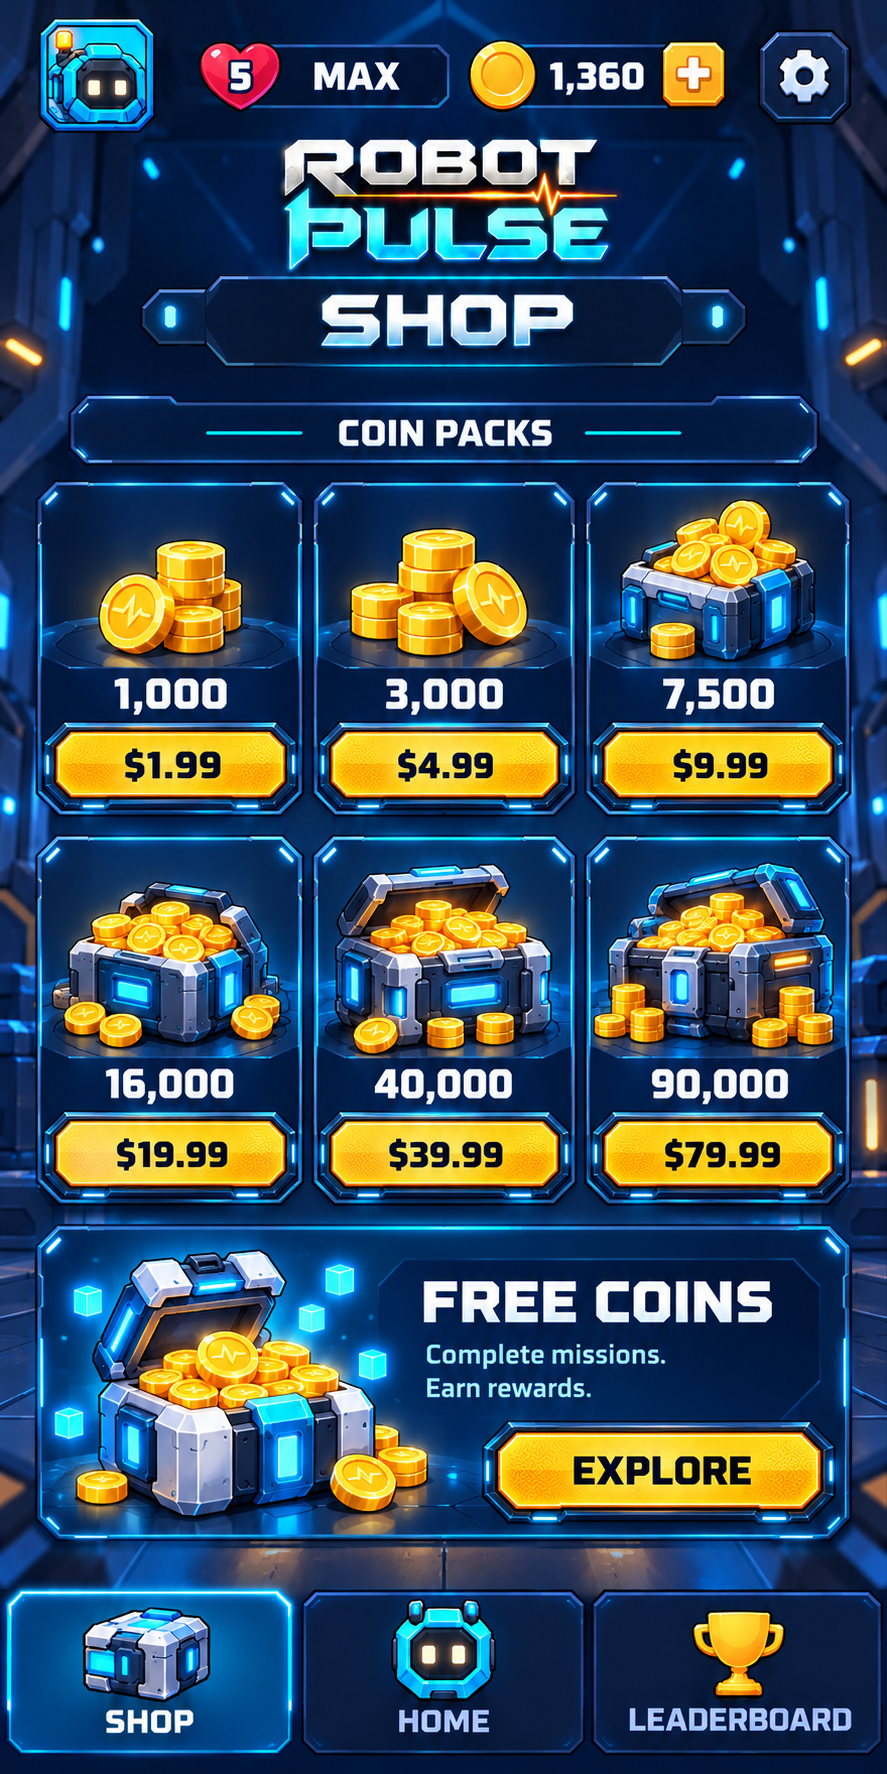
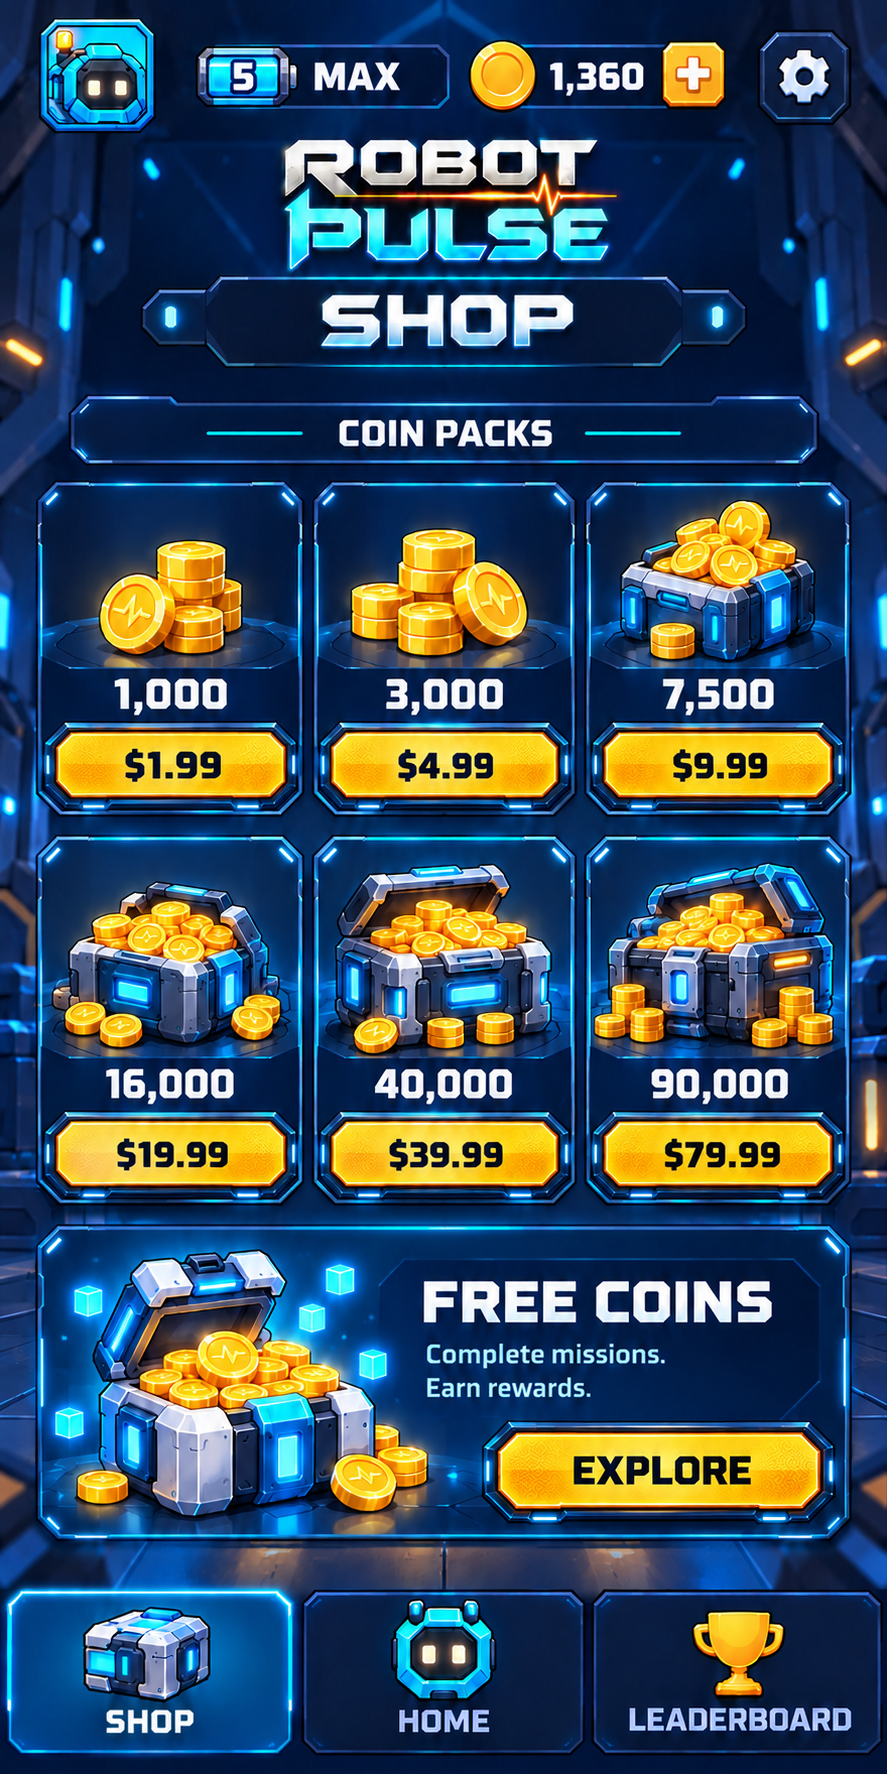
Replace heart with robot energy battery across all three menus
Keep the 5 MAX counter and existing layouts. Document battery charges as remaining attempts, with one charge consumed per defeat.

diff --git a/art/ui/2026-10-09-three-menus/prompts.md b/art/ui/2026-10-09-three-menus/prompts.md
@@ -42,3 +42,26 @@ Below podium a clean list of exactly three compact horizontal player cards with 
 "6" / "AXIS" / "940".
 Then a pinned player card just above the bottom navigation, brighter cyan with a restrained gold edge. Exact content "128" / our cyan robot avatar / "YOU" / "470". It must be completely visible with comfortable padding.
 Same bottom navigation SHOP / HOME / LEADERBOARD, only LEADERBOARD selected and illuminated cyan with a gold trophy. Keep all three labels visible. Dark navy quiet hangar background; no distracting battle. Readable English text, consistent alignment and spacing, full phone-height UI inside the image, no cropping, no phone mockup, no explanation outside screenshot.
+
+
+## Actualización: batería de energía
+
+Edición localizada con imagegen integrada. Se reemplaza el corazón por una batería cian con contador 5; se conserva MAX y el resto de cada pantalla.
+
+### HOME
+
+Use case: precise-object-edit. Edit this existing Robot Pulse HOME screenshot with ONE localized change.
+Replace ONLY the red heart icon in the top resource bar (the heart containing the numeral 5, immediately to the left of MAX) with a compact futuristic BATTERY icon in exactly that location and similar footprint. Battery design: a horizontal rectangular energy cell with a small positive terminal on the right, beveled dark gunmetal outline, bright cyan charged interior, and the existing white numeral "5" centered prominently inside with a dark outline for readability. It must look unmistakably like a battery, not a heart or shield. Keep "MAX" to its right exactly as it is. The battery represents five remaining energy charges / attempts; this is a thematic replacement for lives.
+Preserve EVERYTHING else: exact screen layout and portrait aspect, all HUD elements, logo, text, numbers, unlock cards, level path, original single-cannon robot, PLAY button, background, bottom nav and selected HOME state. Do not redesign or add anything else. No red heart remains. Full original screenshot, no cropping, opaque background.
+
+### SHOP
+
+Use case: precise-object-edit. Image 1 is the SHOP screen to edit. Image 2 is ONLY a reference for the battery icon in the top HUD.
+Make exactly one tiny localized change to Image 1: replace the red heart containing "5", immediately left of "MAX" in the top resource bar, with precisely the same cyan horizontal BATTERY icon shown in that position in Image 2. Match the reference battery's gunmetal rectangular bevel, right-side positive terminal, cyan charged interior and prominent white "5" with dark outline. Same position and scale as the original heart. Keep the adjacent word "MAX" unchanged. This depicts remaining robot energy charges.
+Preserve ALL other pixels and content of Image 1 as faithfully as possible: screenshot proportions and framing, logo, HUD coins and gear, all text, prices or scores, panels, background, and active bottom navigation state. This remains the SHOP page, not HOME. Do not borrow any central content from image 2. No red heart remains. No other changes. Output full portrait screenshot on opaque background, no cropping.
+
+### LEADERBOARD
+
+Use case: precise-object-edit. Image 1 is the LEADERBOARD screen to edit. Image 2 is ONLY a reference for the battery icon in the top HUD.
+Make exactly one tiny localized change to Image 1: replace the red heart containing "5", immediately left of "MAX" in the top resource bar, with precisely the same cyan horizontal BATTERY icon shown in that position in Image 2. Match the reference battery's gunmetal rectangular bevel, right-side positive terminal, cyan charged interior and prominent white "5" with dark outline. Same position and scale as the original heart. Keep the adjacent word "MAX" unchanged. This depicts remaining robot energy charges.
+Preserve ALL other pixels and content of Image 1 as faithfully as possible: screenshot proportions and framing, logo, HUD coins and gear, all text, prices or scores, panels, background, and active bottom navigation state. This remains the LEADERBOARD page, not HOME. Do not borrow any central content from image 2. No red heart remains. No other changes. Output full portrait screenshot on opaque background, no cropping.

diff --git a/art/ui/2026-10-09-three-menus/README.md b/art/ui/2026-10-09-three-menus/README.md
@@ -10,9 +10,13 @@ Conceptos visuales solicitados el 9 de octubre de 2026. Tres imágenes independi
 
 ## Diseño compartido
 
-Robot original cian con visor oscuro, ojos cálidos, antena ámbar y un solo cañón lateral. Paneles azul marino, acentos cian y acciones doradas. Barra superior con perfil, vidas, monedas y ajustes. Navegación inferior en el orden SHOP / HOME / LEADERBOARD.
+Robot original cian con visor oscuro, ojos cálidos, antena ámbar y un solo cañón lateral. Paneles azul marino, acentos cian y acciones doradas. Barra superior con perfil, energía (batería), monedas y ajustes. Navegación inferior en el orden SHOP / HOME / LEADERBOARD.
 
 La presentación de batalla existente sigue siendo la apertura del juego. HOME es el menú de campaña posterior.
+
+## Energía del robot — actualización del 9 de octubre
+
+Por decisión del usuario, una batería cian sustituye al corazón en HOME, SHOP y LEADERBOARD. Representa los intentos disponibles del robot. Se conserva la capacidad mostrada de cinco cargas: una derrota consume una carga. Con energía completa, el indicador muestra 5 MAX. Esta es una definición visual y de comportamiento pendiente de implementar; no establece tiempos de recarga ni precios de recuperación.
 
 ## Contenido de cada pantalla
 
